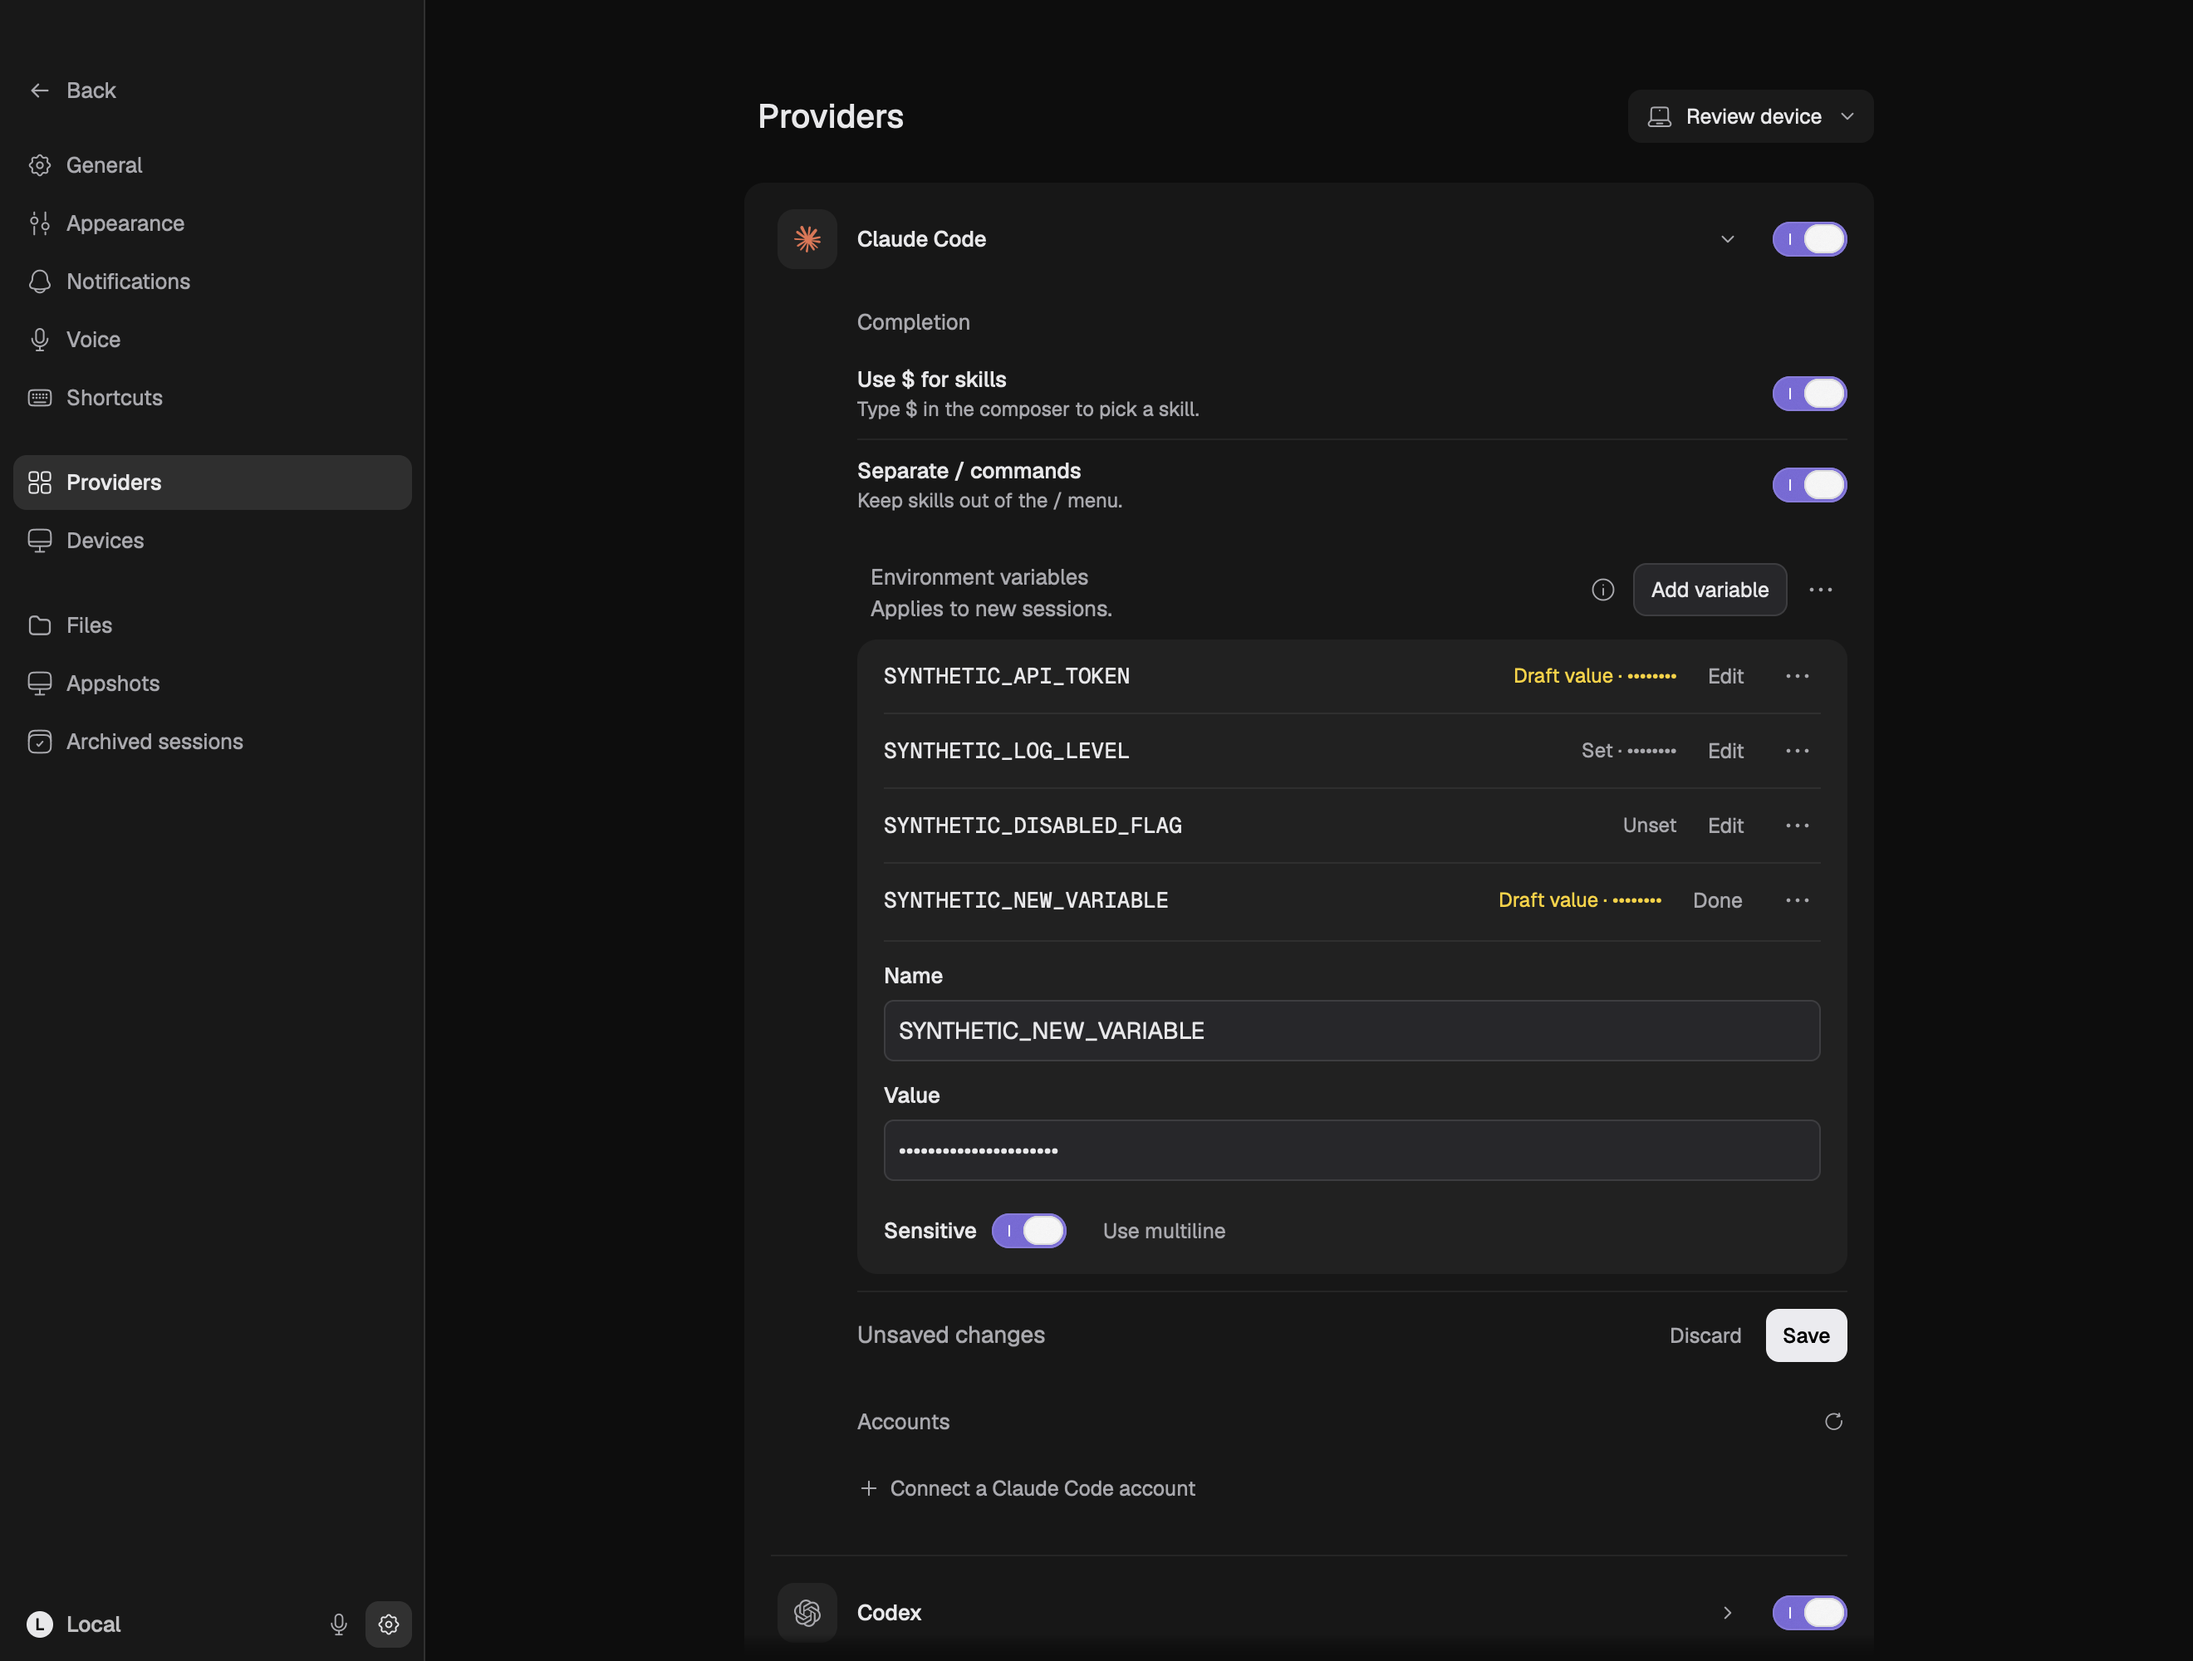
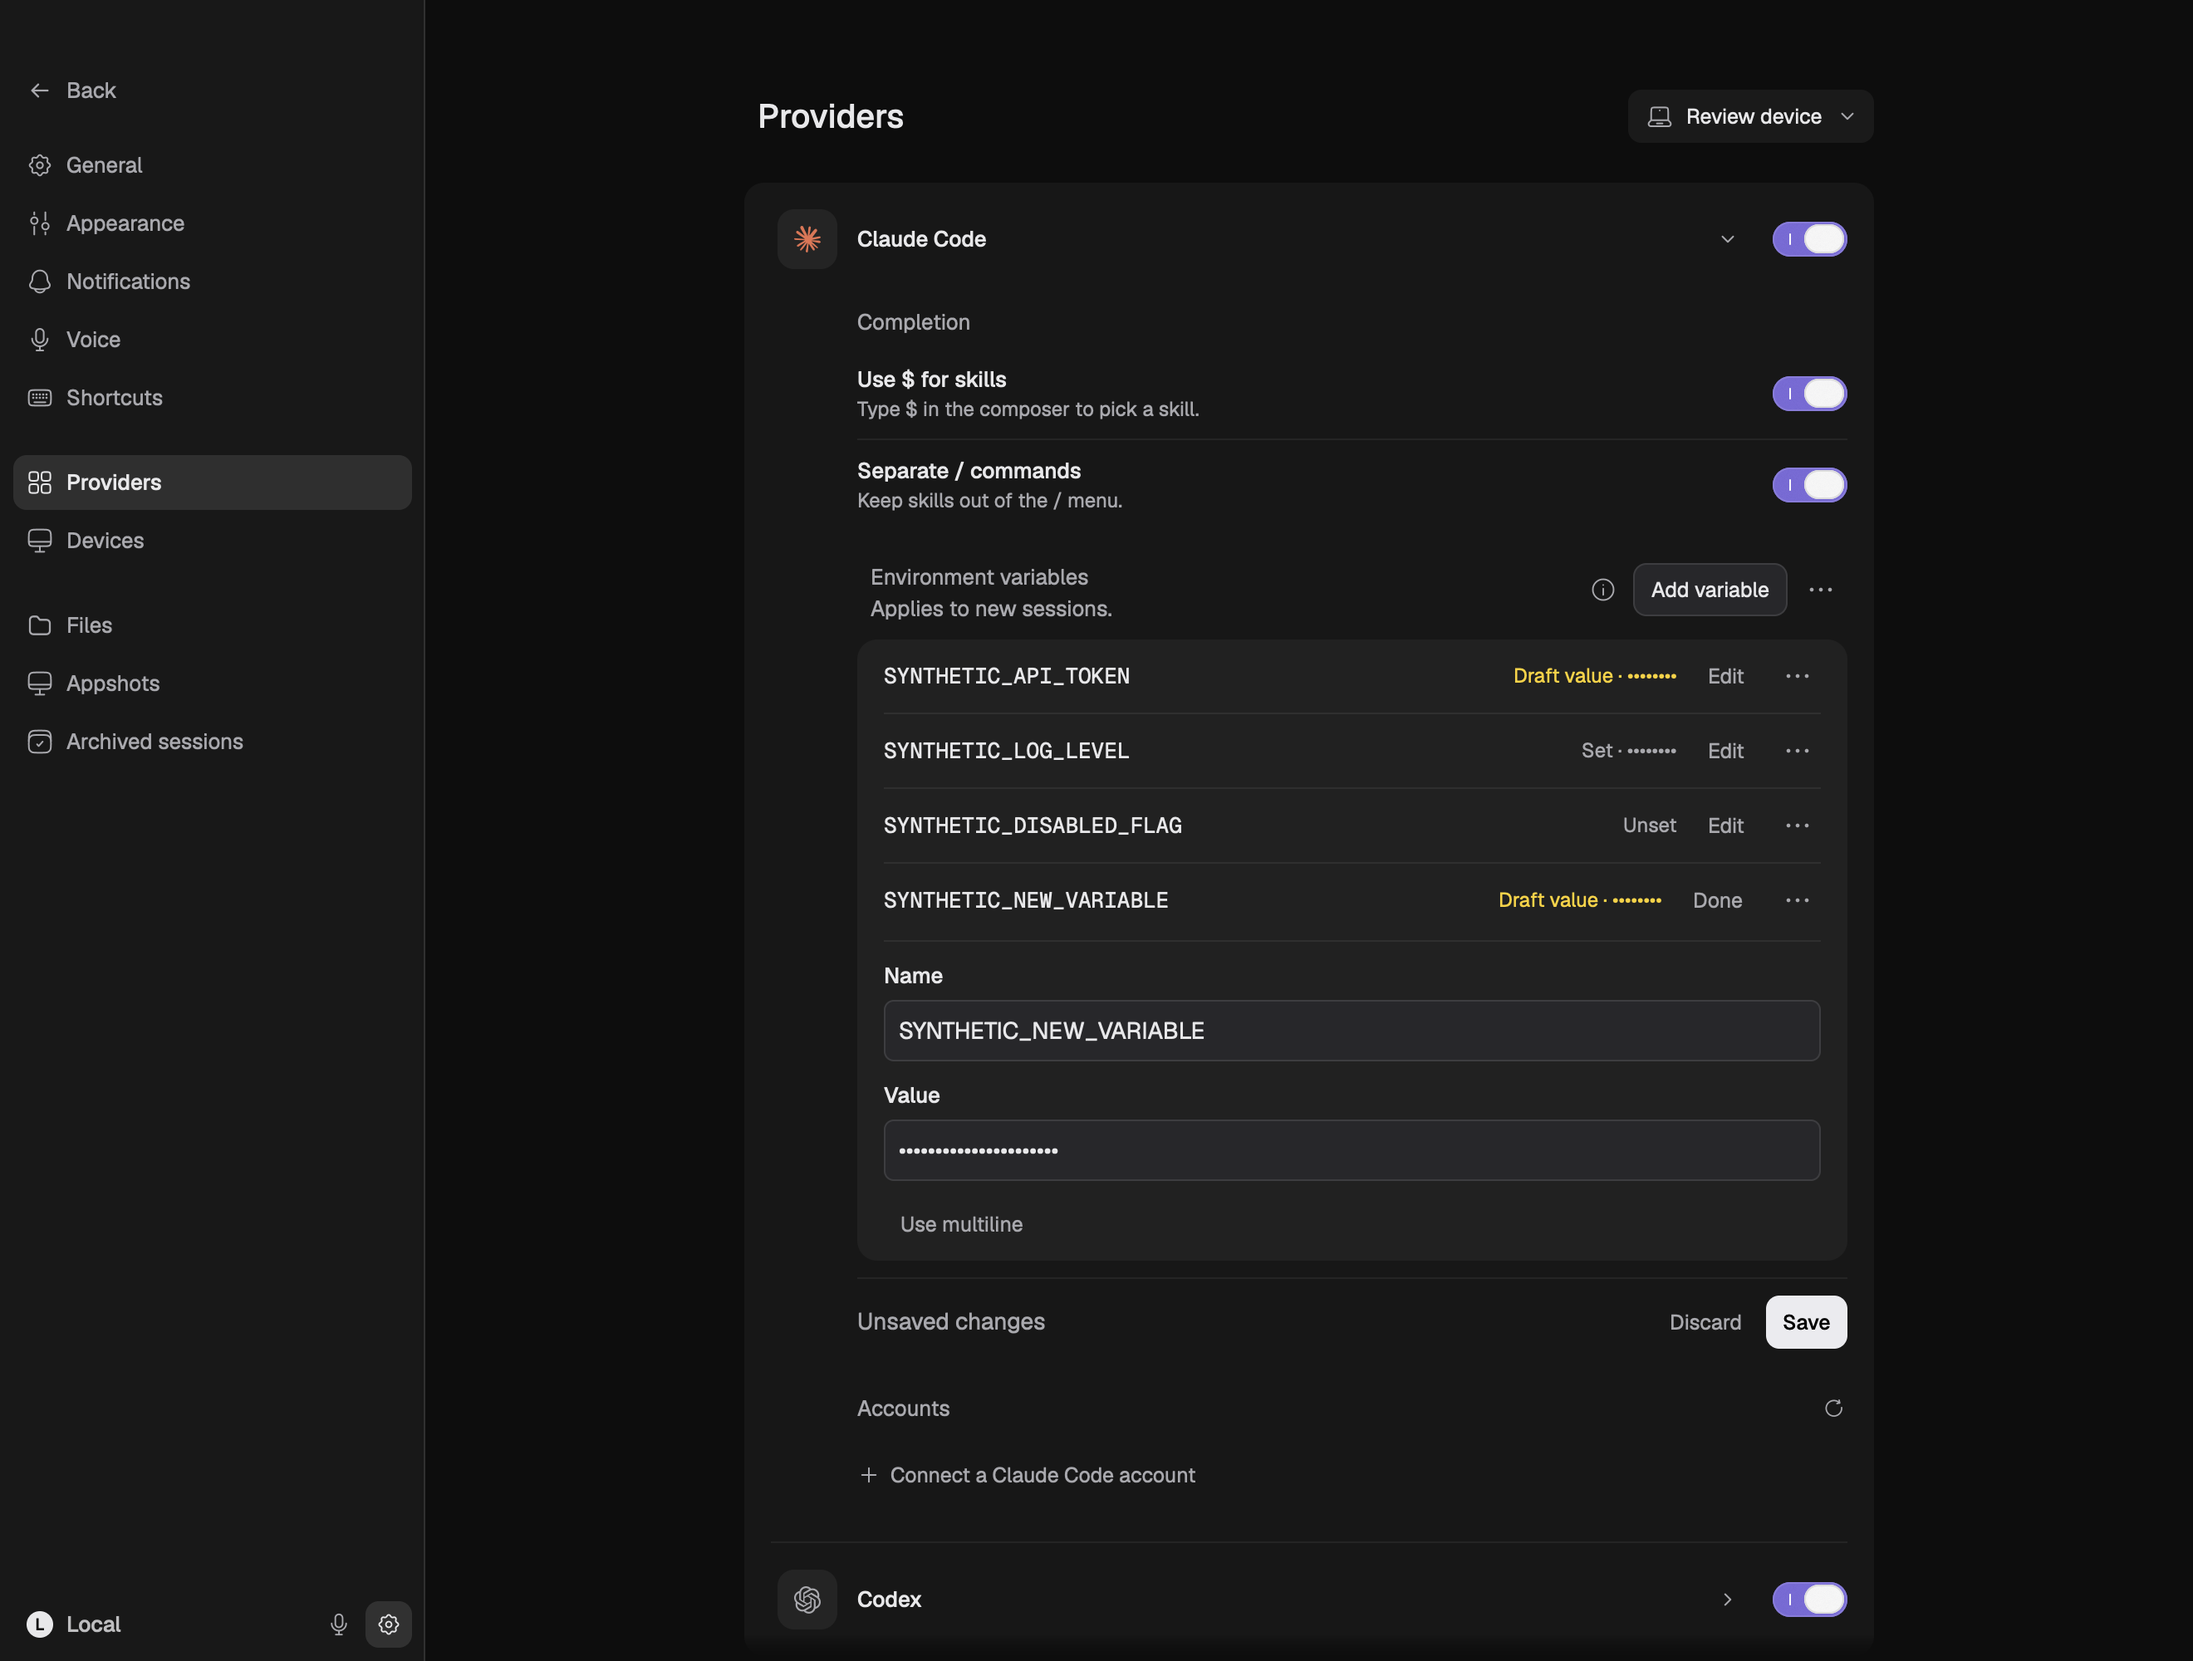
docs: refresh environment injection screenshots

diff --git a/docs/agent-environment.md b/docs/agent-environment.md
@@ -24,10 +24,10 @@ Credential variables can take precedence over a provider's saved CLI account.
 The account usage section continues to describe that saved account.
 
 Values are literal strings: `$HOME`, backticks and shell expressions are not
-expanded. **Use multiline** preserves line breaks and shows the
-replacement while editing. Single-line inputs and saved values otherwise remain hidden. Environment
-configuration does not filter configured values out of provider output or
-diagnostics.
+expanded. **Use multiline** preserves line breaks and shows the replacement
+while editing. Single-line inputs and saved values otherwise remain hidden.
+Environment configuration does not filter configured values out of provider
+output or diagnostics.
 
 The engine validates names and size limits when saving. Names use letters,
 digits and underscores and cannot begin with a digit. Identity/configuration
